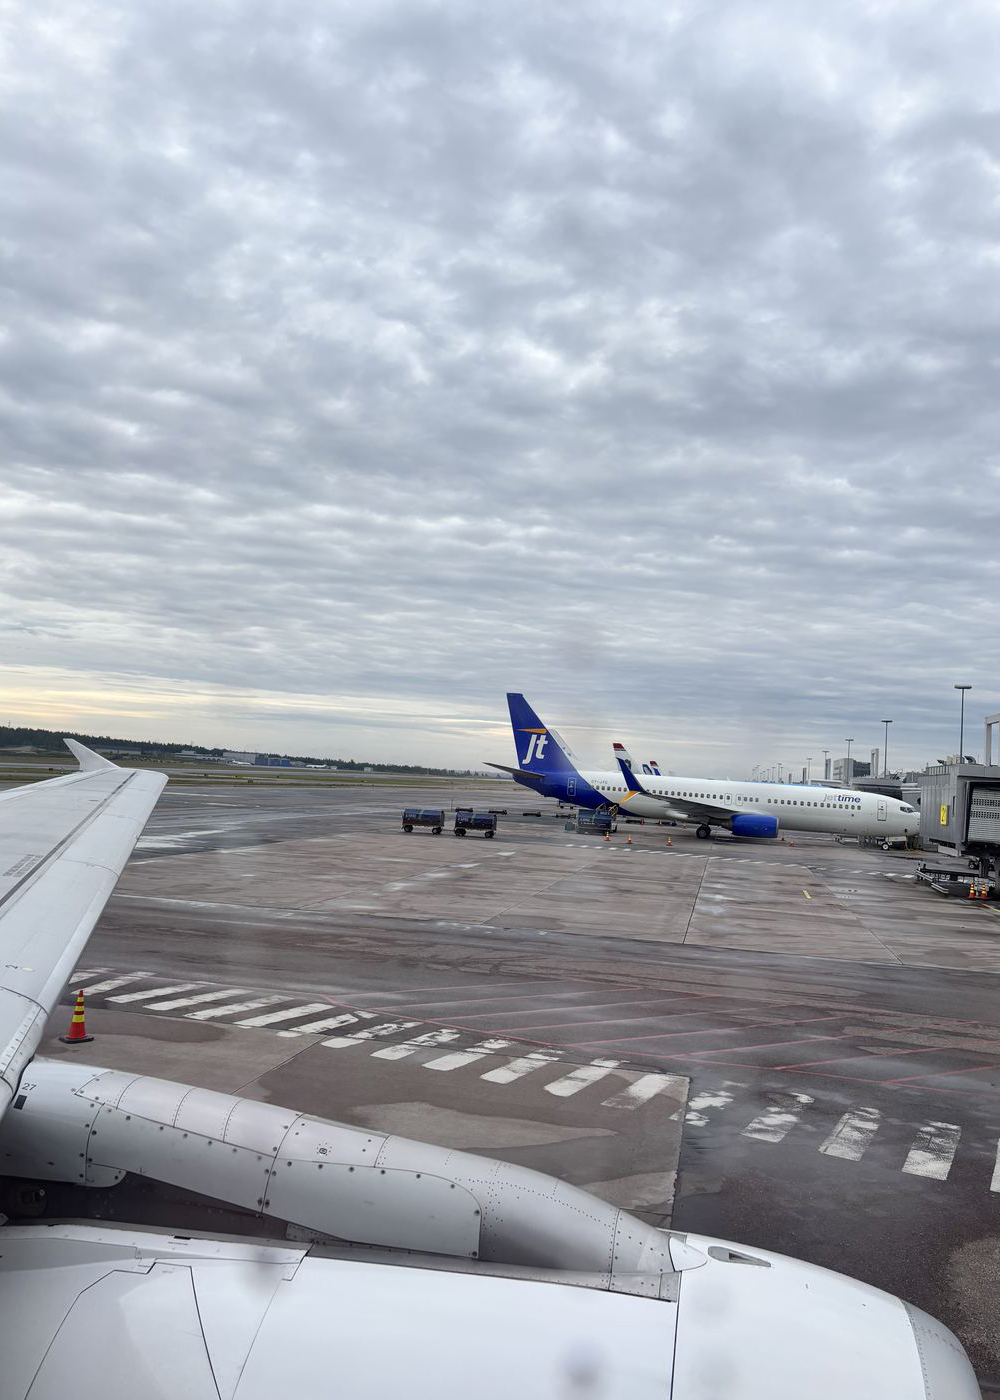
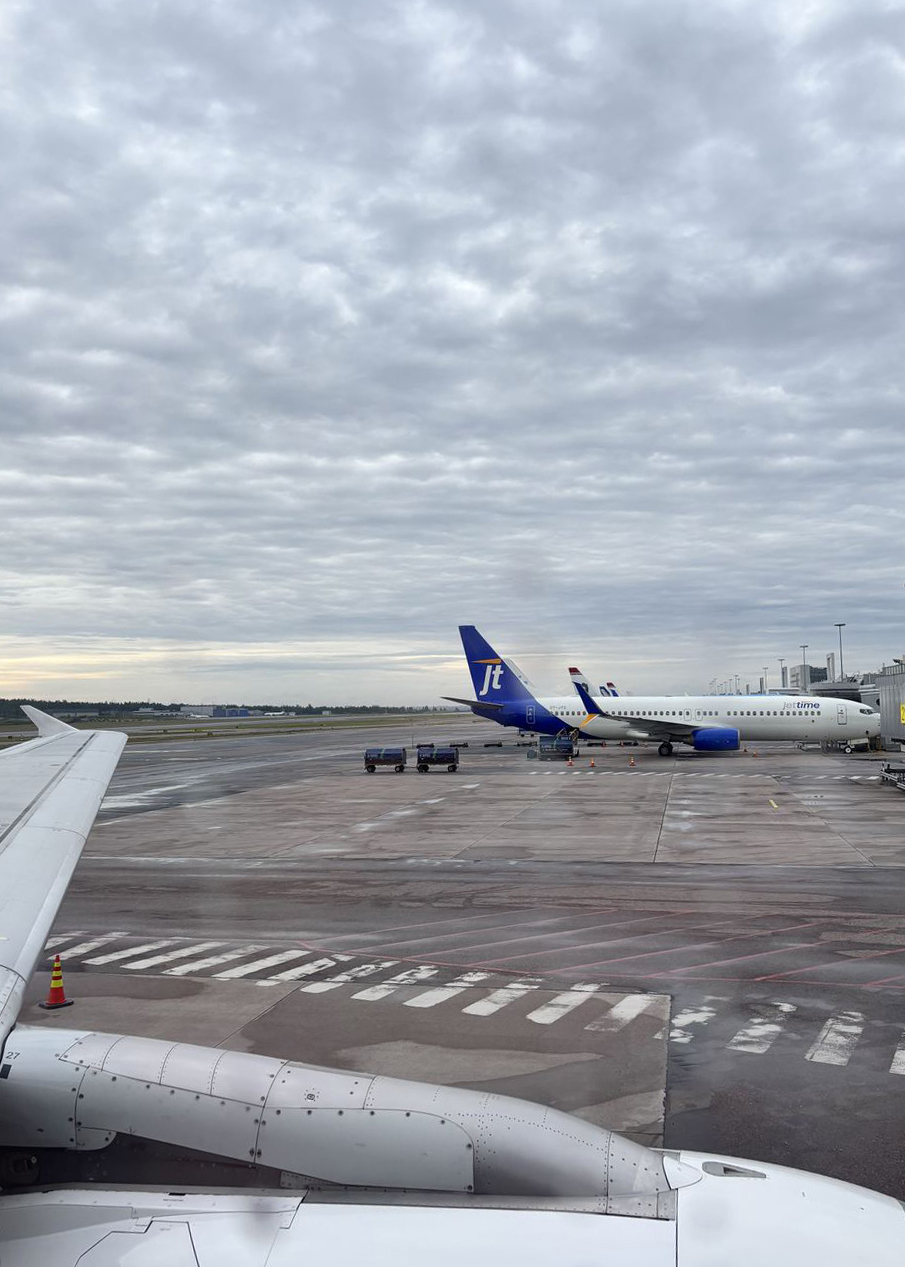
changes to 1st day

diff --git a/index.html b/index.html
@@ -210,11 +210,13 @@ l94 48 -24 19 c-127 100 -204 120 -299 77 -60 -27 -87 -53 -120 -120 -70 -137
     <div class="gallery">
     <figure class="inline-figure"><img src="img/day1/day1-01.jpg" loading="lazy" alt="Plane wing on the tarmac at HEL"><figcaption>05:35am energy, HEL apron.</figcaption></figure>
     <figure class="inline-figure"><img src="img/day1/day1-02.jpg" loading="lazy" alt="Boarding selfie at the gate"><figcaption>Gate selfie — AY1781 to Venice, 07:05.</figcaption></figure>
+    <figure class="inline-figure"><img src="img/day1/day1-18.jpg" loading="lazy" alt="Flight socks"><figcaption>Happy flight socks</figcaption></figure>
     </div>
     
     <div class="gallery">
     <figure class="inline-figure"><img src="img/day1/day1-15.jpg" loading="lazy" alt="Breakfast at the airport"><figcaption>Breakfast at the airport, 06:15.</figcaption>       </figure>
-    <figure class="inline-figure"><img src="img/day1/day1-03.jpg" loading="lazy" alt="Aerial view over the lagoon"><figcaption>First glimpse of the lagoon on descent.</figcaption></figure>
+    <figure class="inline-figure"><img src="img/day1/day1-17.jpg" loading="lazy" alt="Dawn breaking"><figcaption>Dawn breaking at the airport.</figcaption></figure>
+        <figure class="inline-figure"><img src="img/day1/day1-03.jpg" loading="lazy" alt="Aerial view over the lagoon"><figcaption>First glimpse of the lagoon on descent.</figcaption></figure>
     </div>
     
 <p>Our first stop in Venice was <strong>La Lista</strong>, just off Campo San Geremia. A couple of bruschette and cappuccinos were exactly what we needed after the early start. It was nice to simply sit for a while and watch the city wake up around us before setting off to explore on foot. Venice has a way of rewarding those moments when you slow down and let the atmosphere sink in.</p>
@@ -232,11 +234,13 @@ l94 48 -24 19 c-127 100 -204 120 -299 77 -60 -27 -87 -53 -120 -120 -70 -137
    
     <div class="gallery">
     <figure class="inline-figure"><img src="img/day1/day1-07.jpg" loading="lazy" alt="Ivy-covered building along a shopfront"><figcaption>Wandering toward the Ghetto Nuovo.</figcaption></figure>
-    <figure class="inline-figure"><img src="img/day1/day1-08.jpg" loading="lazy" alt="Narrow Venice canal"><figcaption>No real plan, and no need for one.</figcaption></figure>
-    <figure class="inline-figure"><img src="img/day1/day1-14.jpg" loading="lazy" alt="Mikael and Mira toasting with spritzes at San Sofia"><figcaption>Spritz o'clock at San Sofia.</figcaption></figure>
     <figure class="inline-figure"><img src="img/day1/day1-10.jpg" loading="lazy" alt="Bruschette and drinks on a wooden board"><figcaption>The afternoon snack.</figcaption></figure>
+    </div>
+    <div class="gallery">
     <figure class="inline-figure"><img src="img/day1/day1-09.jpg" loading="lazy" alt="Canal-side table under an umbrella"><figcaption>Canal view on the snacks.</figcaption></figure>
     <figure class="inline-figure"><img src="img/day1/day1-16.jpg" loading="lazy" alt="A classic Venice door-knob"><figcaption>A detail of Venice.</figcaption></figure>
+    <figure class="inline-figure"><img src="img/day1/day1-08.jpg" loading="lazy" alt="Narrow Venice canal"><figcaption>No real plan, and no need for one.</figcaption></figure>
+    <figure class="inline-figure"><img src="img/day1/day1-14.jpg" loading="lazy" alt="Mikael and Mira toasting with spritzes at San Sofia"><figcaption>Spritz o'clock at San Sofia.</figcaption></figure>
     </div>
     
     <p>For our first dinner in Venice we had booked <strong>Osteria Anice Stellato</strong>, and it turned out to be an excellent introduction to the city's food and wine. While every dish was beautifully prepared, what really stood out was how thoughtfully the wines had been paired with each course. It felt like the wines were just as much a part of the experience as the food itself.</p>
